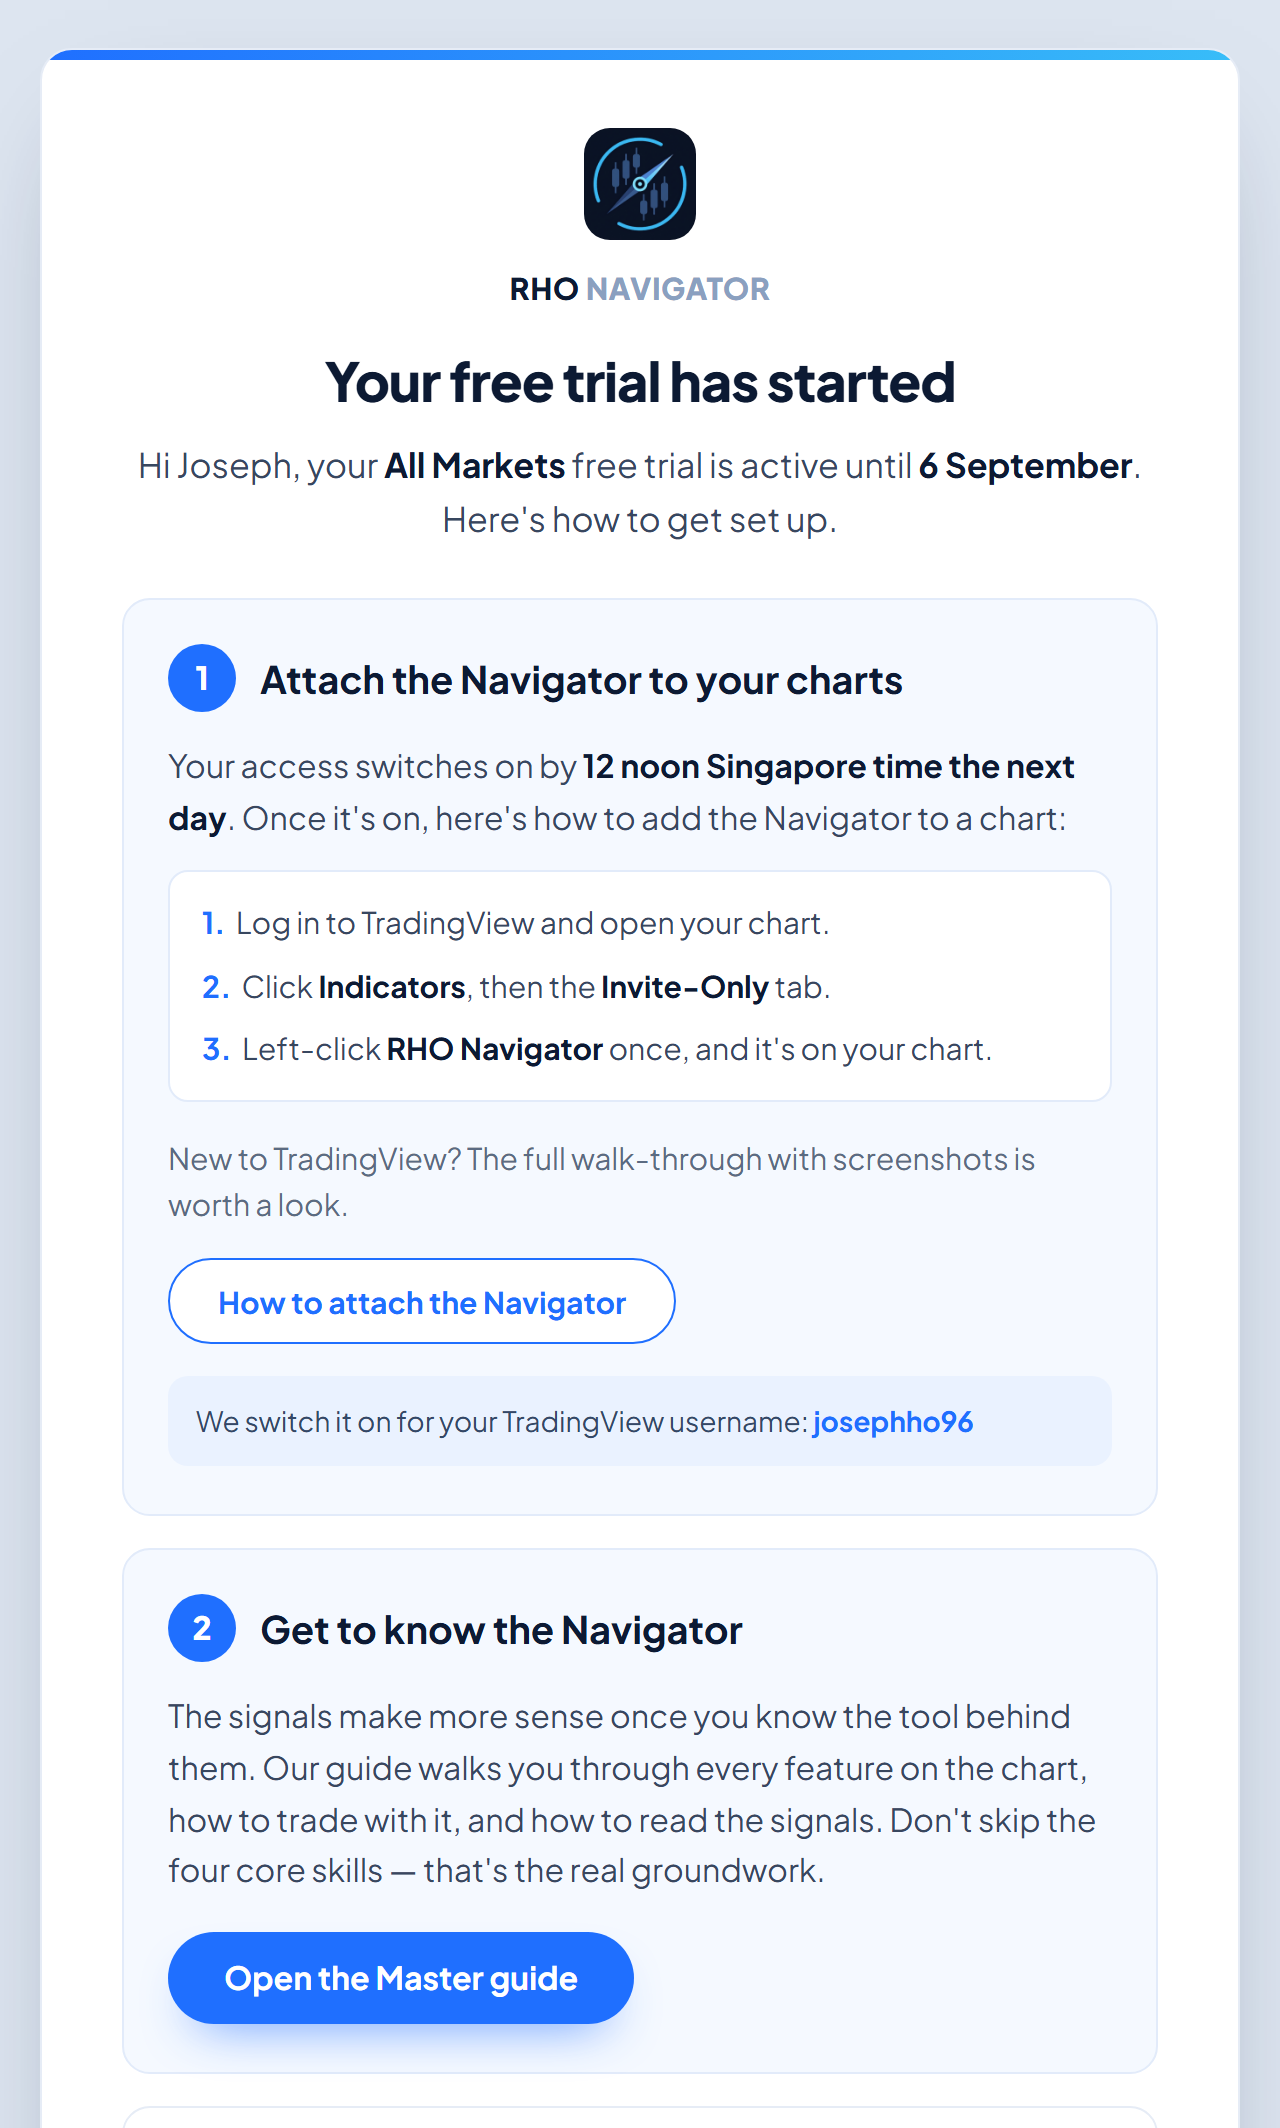
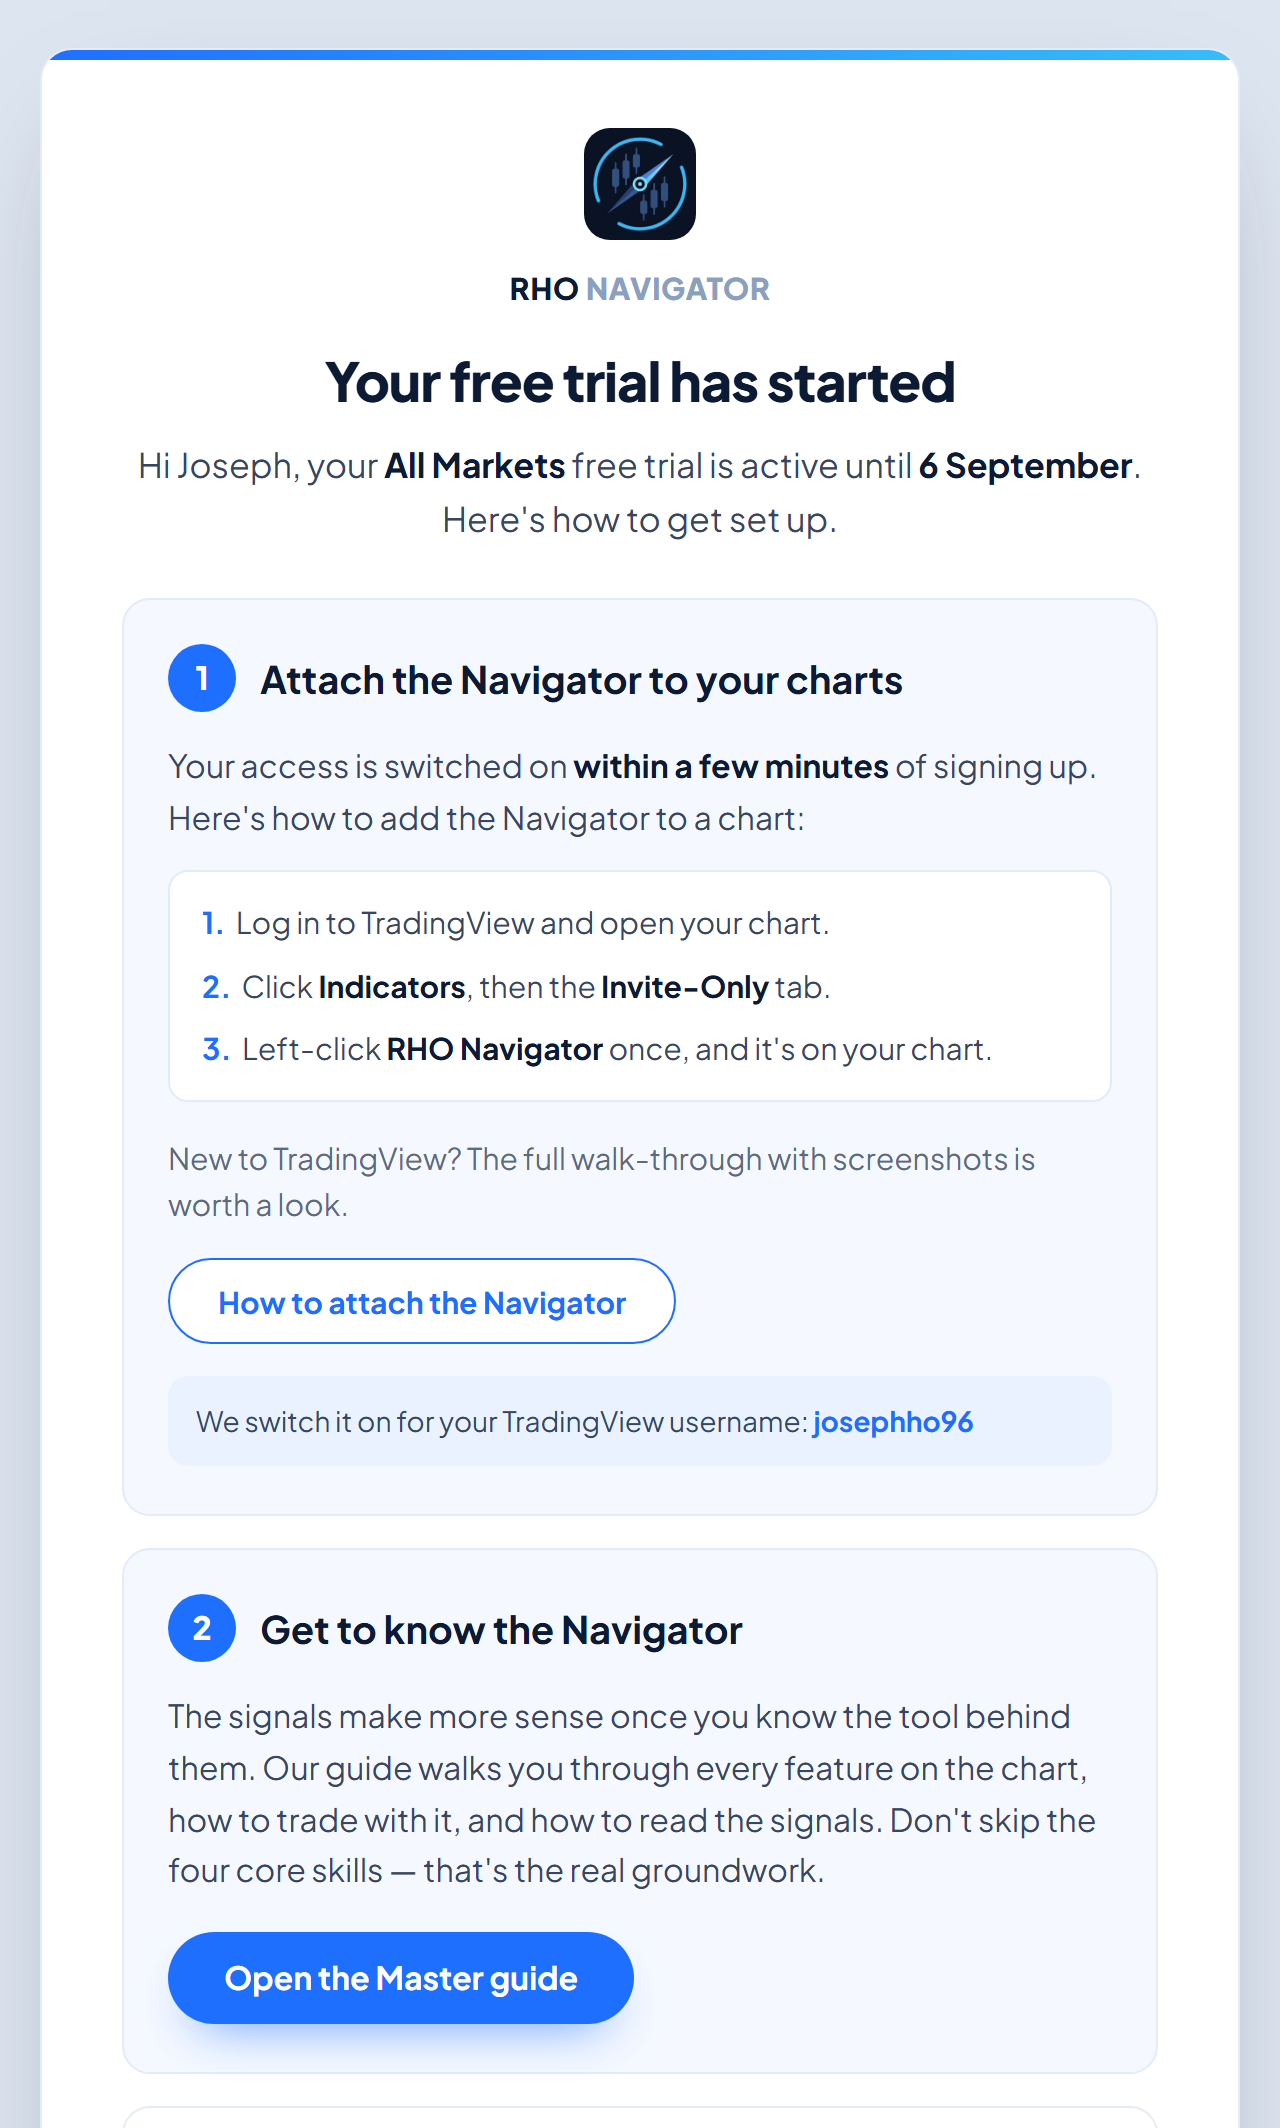
emails + trial attach page: access is granted within minutes, drop the '12 noon next day' promise; welcome-email screenshot re-captured with the new wording

Changed region(s): [[0.125, 0.3412, 0.8438, 0.4032]]

diff --git a/lib/email.ts b/lib/email.ts
@@ -311,7 +311,7 @@ export async function sendOnboardingEmail(
       attachSteps +
       guideLine
     : para(
-        `Your access switches on by <strong style="color:${INK};">12 noon Singapore time the next day</strong>. Once it's on, here's how to add the Navigator to a chart:`,
+        `Your access is switched on <strong style="color:${INK};">within a few minutes</strong> of signing up. Here's how to add the Navigator to a chart:`,
         14,
         14
       ) +
@@ -417,7 +417,7 @@ export async function sendOnboardingEmail(
             ? `Your TradingView username (${tvUsername}) doesn't match any TradingView account, so we can't switch on your access yet.`
             : `We didn't get your TradingView username at checkout, so we can't switch on your access yet.`
         } WhatsApp Joseph at 8200 7039 (${WHATSAPP_JOSEPH_LINK}) or message @Joseph_Ho on Telegram (${TELEGRAM_JOSEPH_LINK}) with the correct username.\nOnce it's fixed, here's how to add the Navigator to a chart:`
-      : `Your access switches on by 12 noon Singapore time the next day. Once it's on:`,
+      : `Your access is switched on within a few minutes of signing up. Then:`,
     `1. Log in to TradingView and open your chart.\n2. Click Indicators, then the Invite-Only tab.\n3. Left-click RHO Navigator once, and it's on your chart.\nFull walk-through: ${attachGuideHref}`,
     tvInvalid
       ? null
